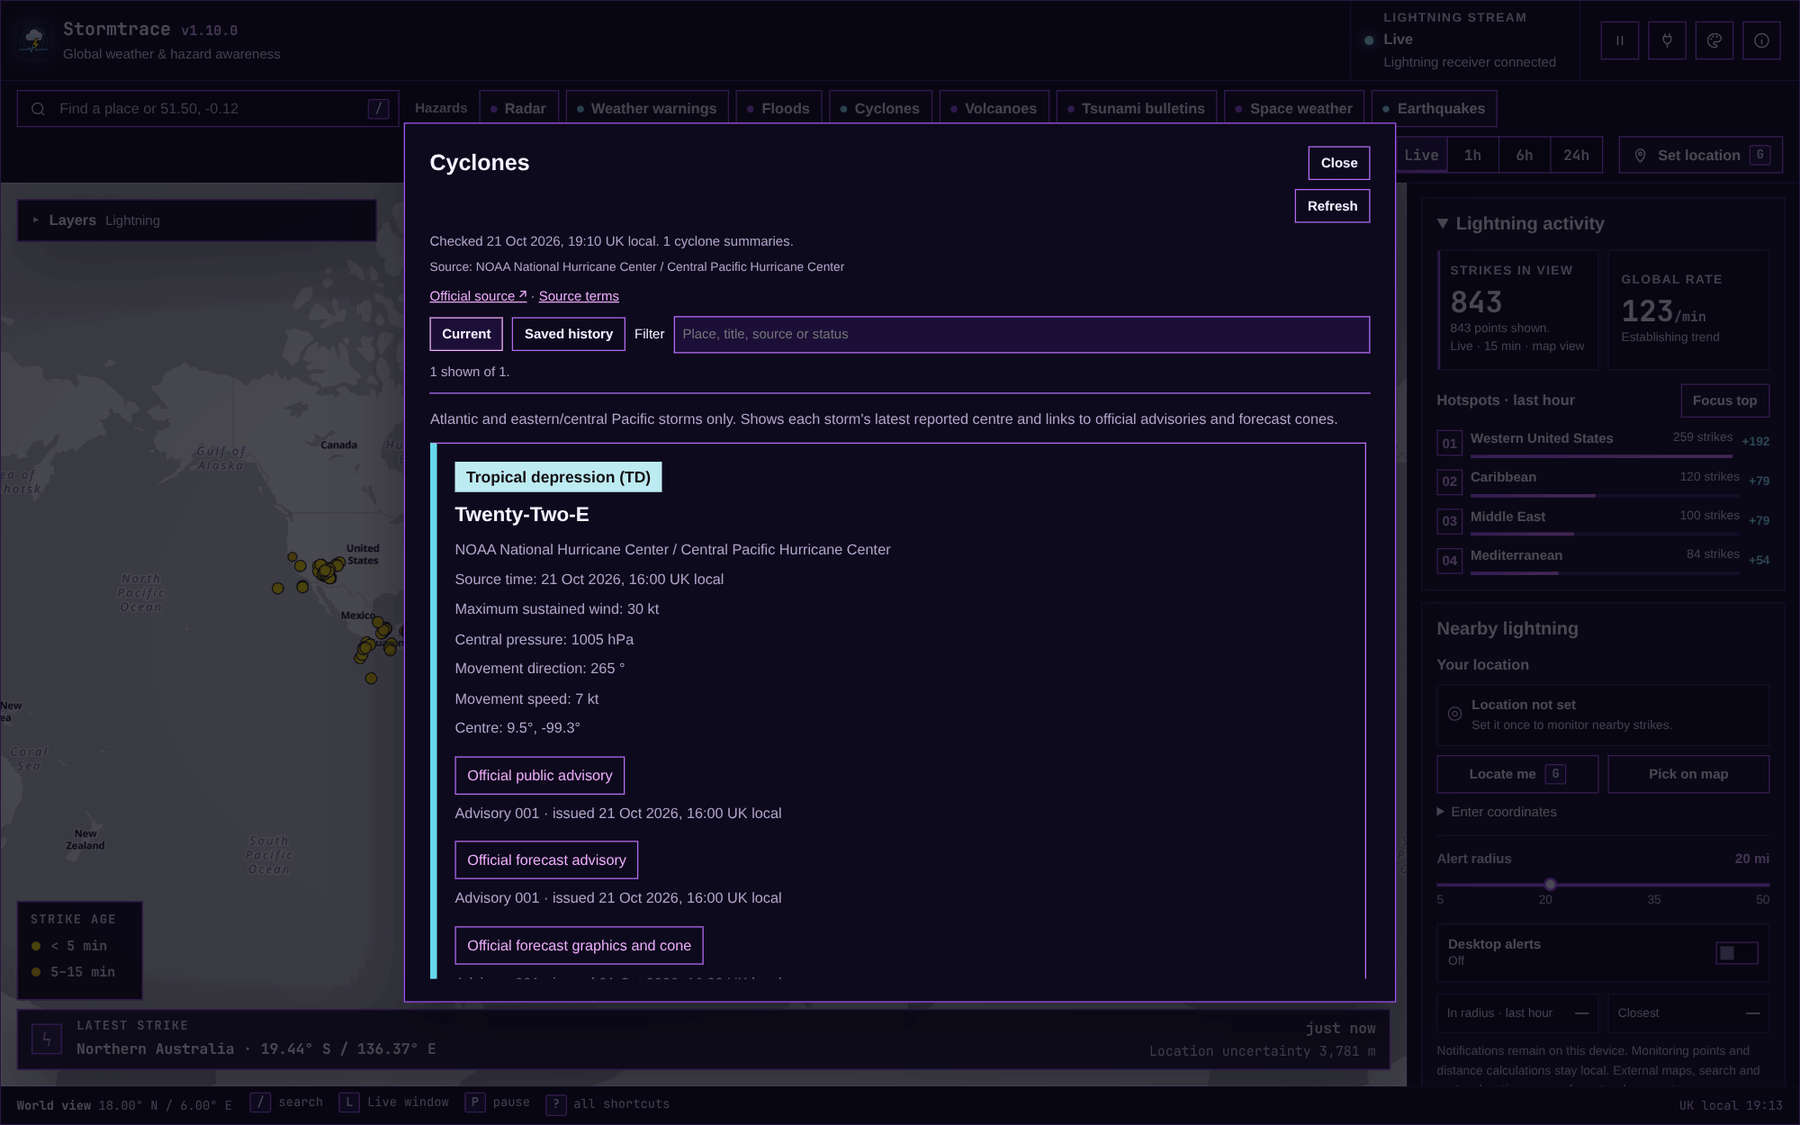
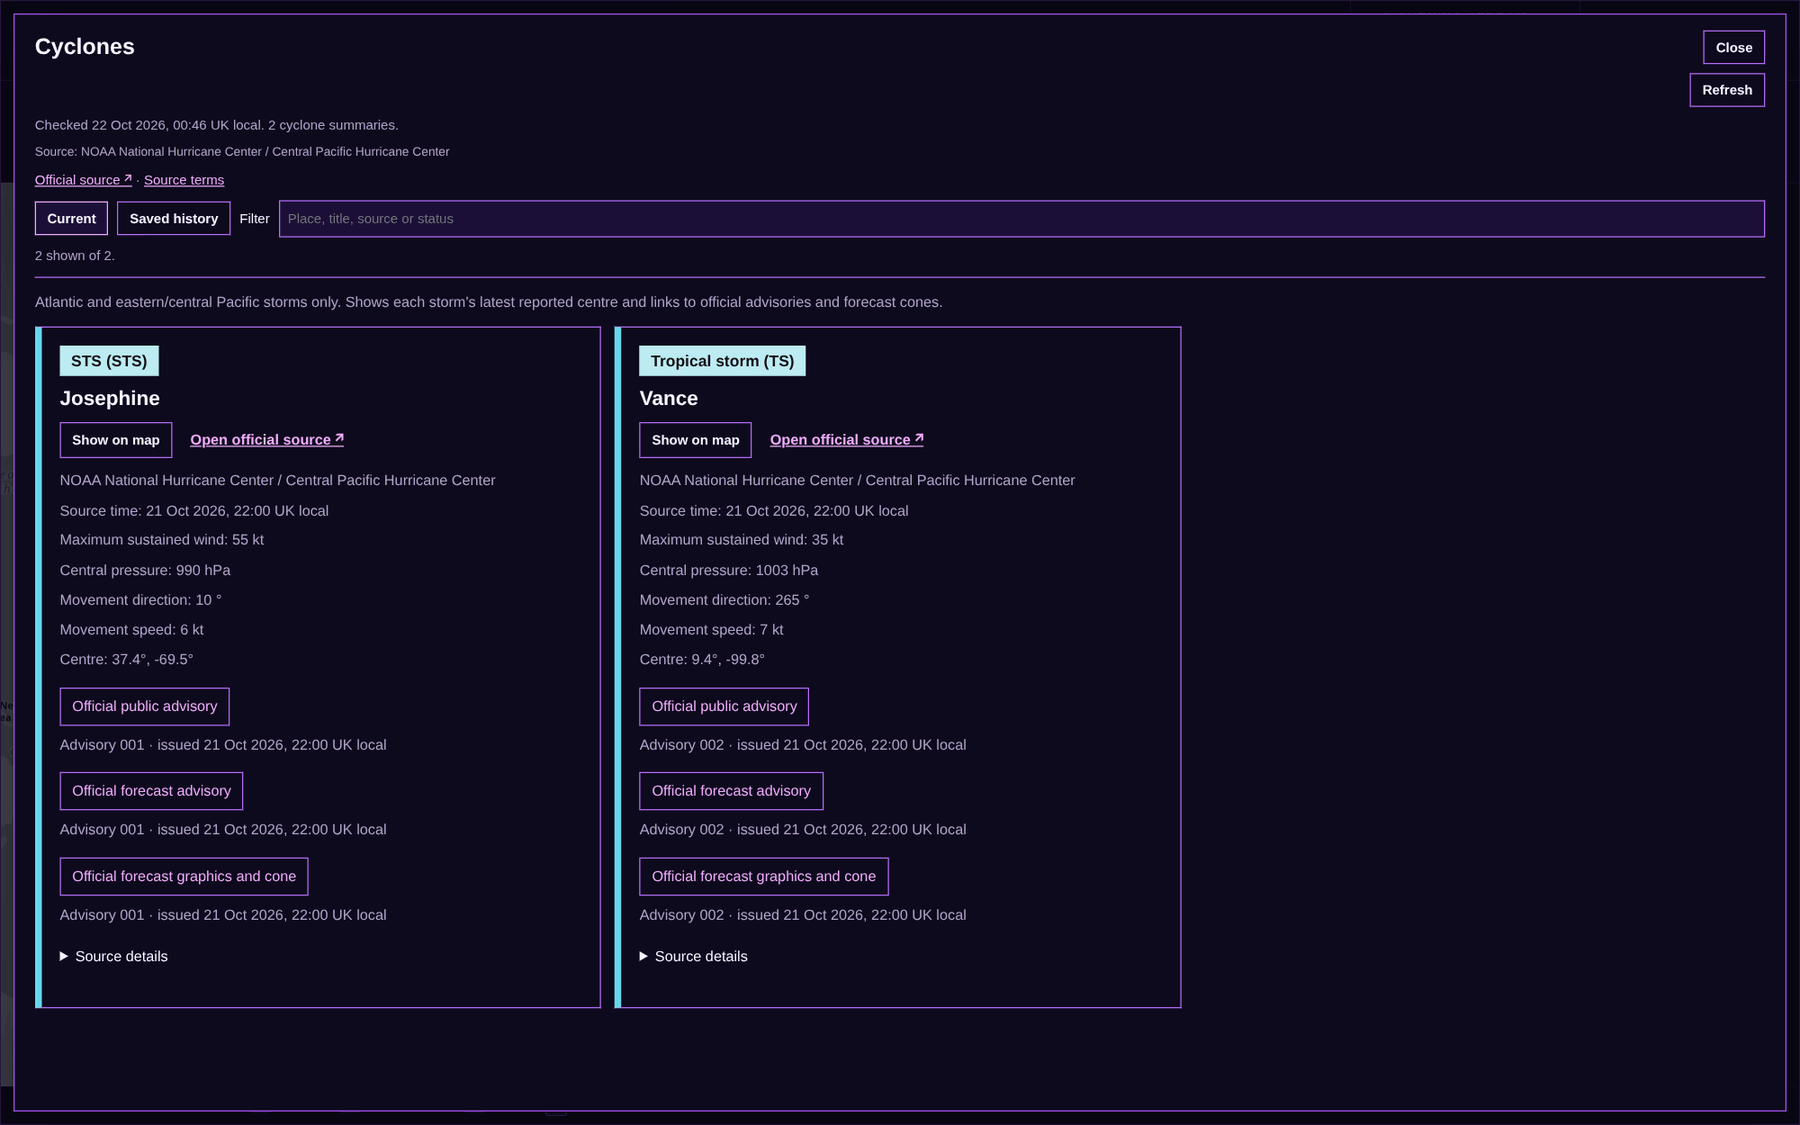
Refresh README screenshots for 1.11 (1.11.1)
Retake all twelve README screenshots from the live build on 22 October 2026:
full-window hazard views with card action rows, the full-window warning map,
the Alerts near you panel, radar and precipitation type, and lightning views.
Update captions to match.

diff --git a/README.md b/README.md
@@ -89,7 +89,7 @@ The **Hazards** buttons along the top open each view. A small dot on each button
   </tr>
   <tr>
     <td width="50%"><img src="docs/screenshots/earthquakes.png" alt="Earthquakes of magnitude 4.5 and above from the past day"></td>
-    <td width="50%"><img src="docs/screenshots/cyclones.png" alt="An active Eastern Pacific tropical cyclone in the cyclones view"></td>
+    <td width="50%"><img src="docs/screenshots/cyclones.png" alt="Tropical storms Josephine (Atlantic) and Vance (eastern Pacific) in the cyclones view"></td>
   </tr>
   <tr>
     <td align="center"><sub>Filter earthquakes by time and size</sub></td>
@@ -99,7 +99,7 @@ The **Hazards** buttons along the top open each view. A small dot on each button
 
 Use **Layers** in the top-left corner of the map to add flood areas or earthquakes to the map itself, and **Show on map** in a list to jump to one event. Every view says where its information comes from, when it last checked, and whether anything is delayed or unavailable.
 
-![Earthquakes from the past day on the map, with one earthquake's details open](docs/screenshots/earthquake-map.png)
+![A magnitude 5.3 earthquake on the Reykjanes Ridge shown on the map with its details open](docs/screenshots/earthquake-map.png)
 
 ### 🎨 Make it yours
 
@@ -107,7 +107,7 @@ Stormtrace follows your Omarchy theme automatically, or you can pick your own co
 
 ![The Appearance panel with text, time, colour and map settings](docs/screenshots/appearance-controls.png)
 
-<sub>Screenshots show live data captured on 21 October 2026.</sub>
+<sub>Screenshots show live data captured on 22 October 2026.</sub>
 
 ## Install
 

diff --git a/docs/hazards.md b/docs/hazards.md
@@ -2,7 +2,7 @@
 
 Stormtrace provides four optional views among the **Hazards** buttons: **Cyclones**, **Volcanoes**, **Tsunami bulletins** and **Space weather**. They retrieve public data without subscription keys. Each view shows its source, coverage, source times, last successful retrieval, and explicit loading/error/cached feedback. Internet delivery is best effort; use the official source and local authorities for current guidance.
 
-![Tropical Depression Twenty-Two-E in the cyclones view](screenshots/cyclones.png)
+![Tropical storms Josephine and Vance in the cyclones view](screenshots/cyclones.png)
 
 ## Available views
 
